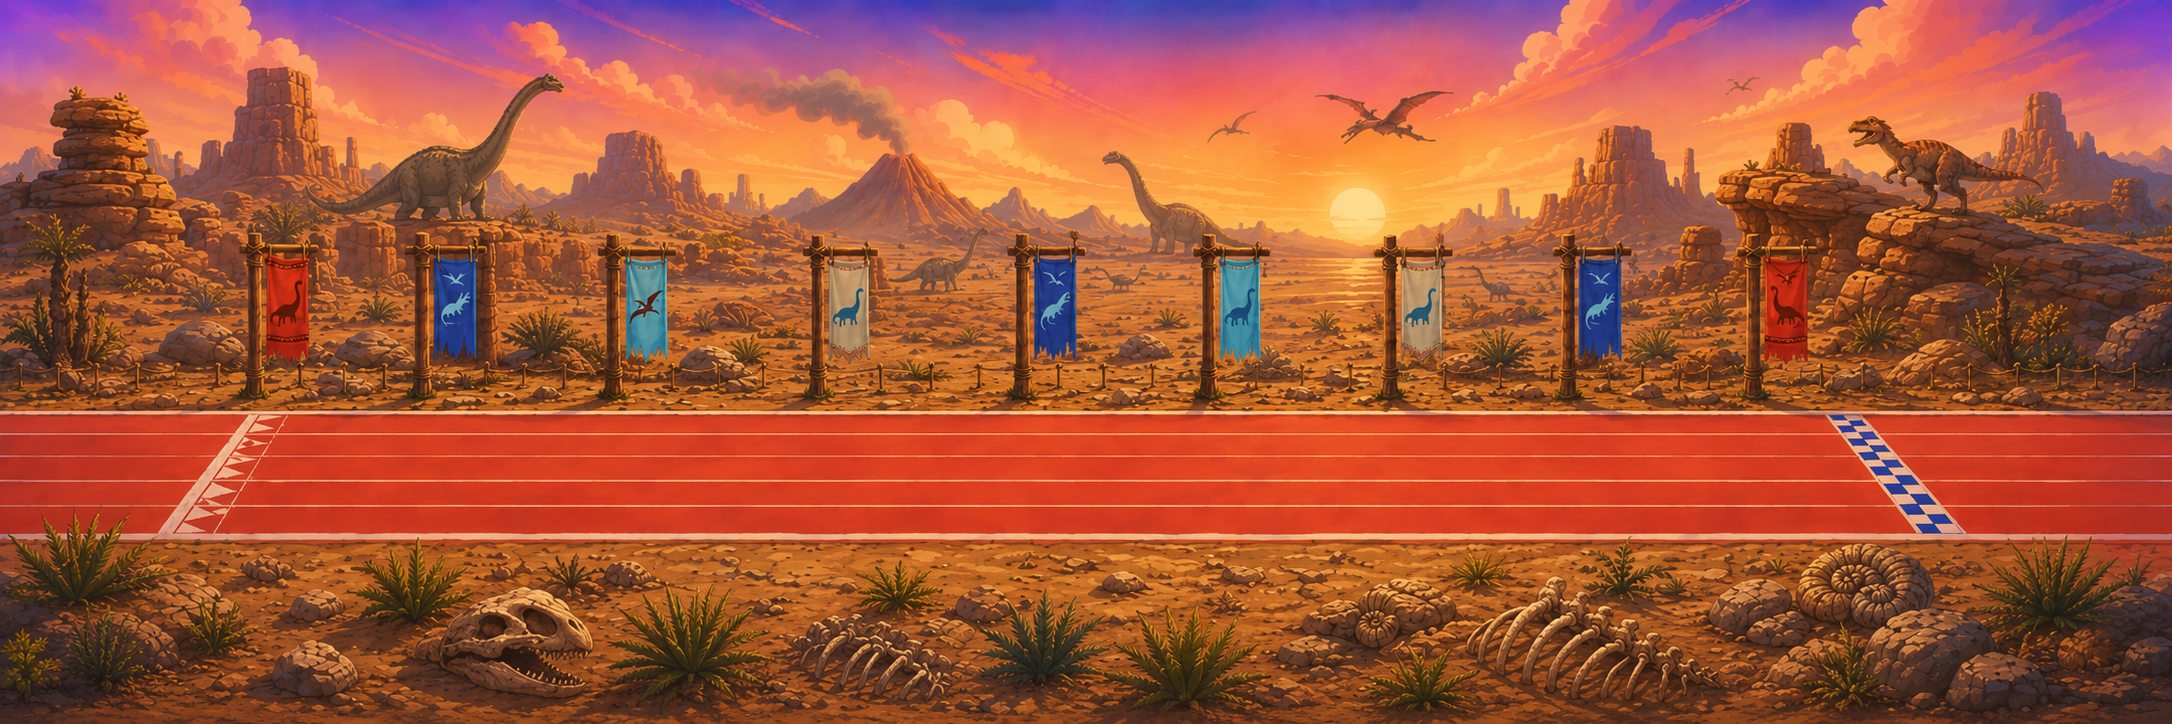
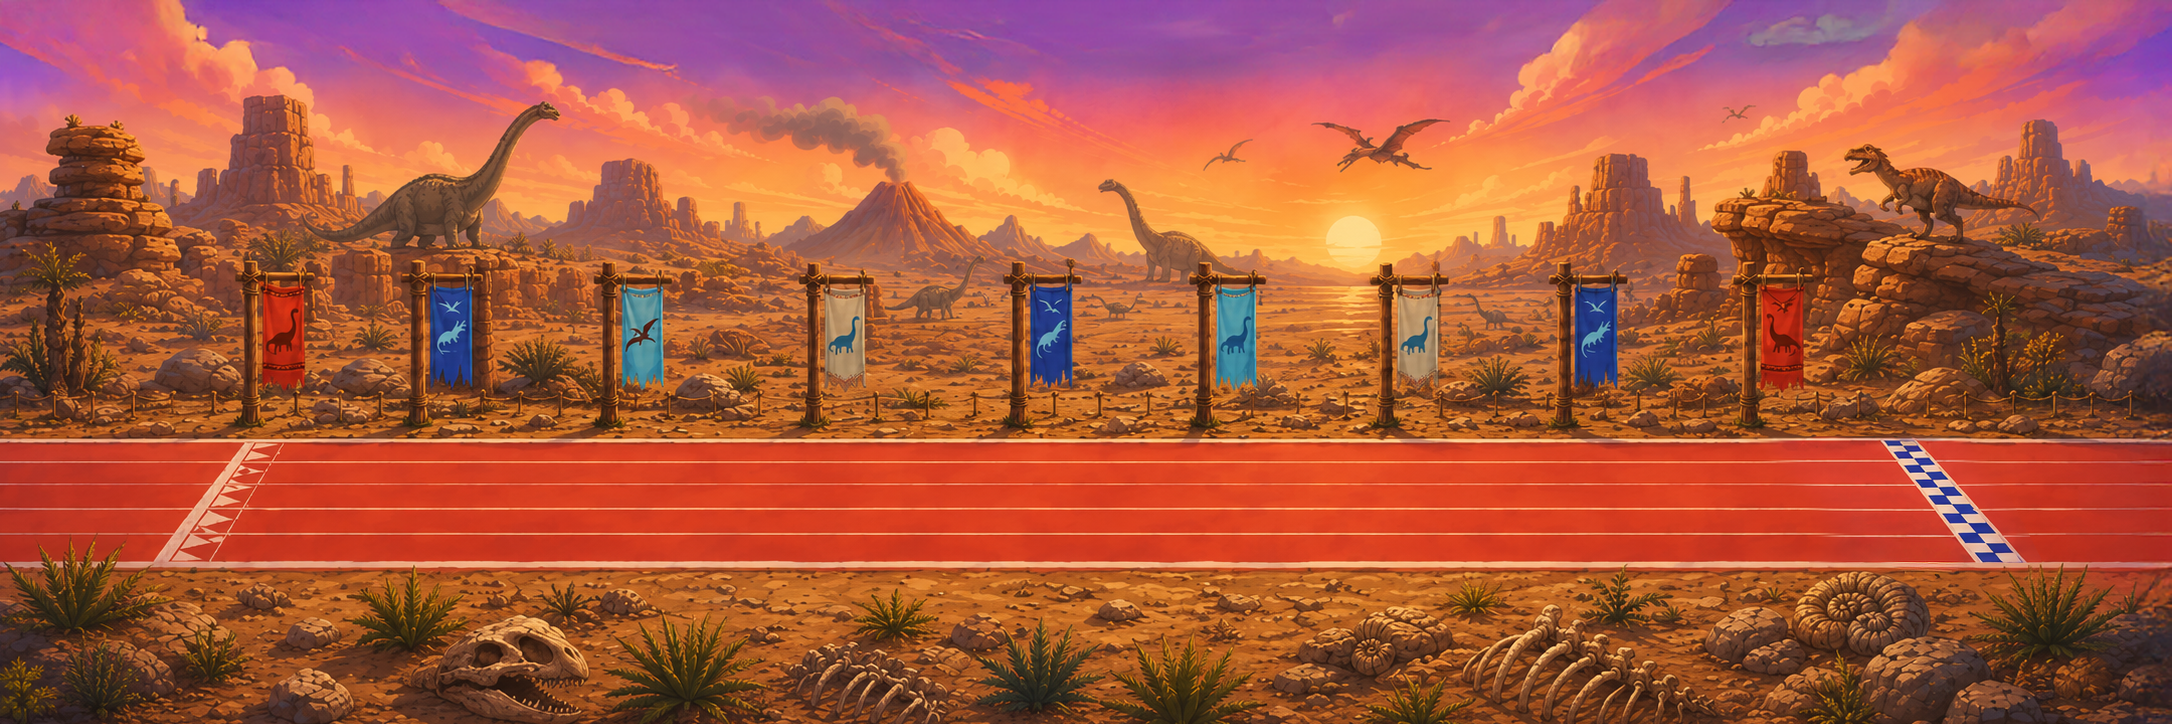
Align canyon stage to shared lane grid

diff --git a/ASSET_GUIDE.md b/ASSET_GUIDE.md
@@ -68,7 +68,7 @@ Camera centers are Photoshop/source coordinates, with positive Y moving down fro
 
 ## Shared stage alignment contract
 
-Prehistoric Winter, Prehistoric Wilds, and Prehistoric Canyon are registered as one panning-track family. Their backgrounds share the same image size, viewport, and camera rules. The race surface may either match the shared Winter/Wilds lane template or provide its own exact `lanePaths` when the painted track grid is different.
+Prehistoric Winter, Prehistoric Wilds, and Prehistoric Canyon are registered as one panning-track family. Their backgrounds share the same image size, viewport, camera rules, and current lane grid. Use a custom `lanePaths` grid only when a new painted road is intentionally different.
 
 Use these exact source-art values for panning stages:
 
@@ -76,9 +76,9 @@ Use these exact source-art values for panning stages:
 - Visible camera/viewport: `1530 x 724`.
 - World size: `2172 x 724`.
 - Camera centers: start at `{ "x": 762, "y": 362 }`, end at `{ "x": 1408, "y": 362 }`.
-- Race line: match the player lane start and finish. Winter/Wilds use `{ "startX": 114, "finishX": 1977 }`; Canyon uses `{ "startX": 125, "finishX": 1897 }`.
-- Lane baselines, in manifest lane order: use the center point of each runner image for that track. Winter/Wilds use `443.25, 415.5, 387.75, 360, 471`; Canyon uses `484, 461, 438, 415, 507`.
-- Winter/Wilds lane paths:
+- Race line: match the player lane start and finish. Current panning stages use `{ "startX": 114, "finishX": 1977 }`.
+- Lane baselines, in manifest lane order: use the center point of each runner image. Current panning stages use `443.25, 415.5, 387.75, 360, 471`.
+- Current panning-stage lane paths:
   - Lane 0: start `{ "x": 136.75, "y": 443.25 }`, finish `{ "x": 1957.75, "y": 443.25 }`
   - Lane 1: start `{ "x": 159.5, "y": 415.5 }`, finish `{ "x": 1938.5, "y": 415.5 }`
   - Lane 2: start `{ "x": 182.25, "y": 387.75 }`, finish `{ "x": 1919.25, "y": 387.75 }`

diff --git a/STAGE_ALIGNMENT.md b/STAGE_ALIGNMENT.md
@@ -28,7 +28,7 @@ Every stage needs five `lanePaths` entries:
 4. Bot 4, top/back lane
 5. Player, bottom/front lane
 
-The player lane should be the largest/front-most lane and is drawn last. Do not assume a new background can reuse another stage's lane Y values. Match the painted track lanes in that exact image.
+The player lane should be the largest/front-most lane and is drawn last. The current prehistoric panning stages share one lane grid; only create a stage-specific grid when the painted road is intentionally different.
 
 ## Start and finish rule
 
@@ -39,7 +39,7 @@ The player lane should be the largest/front-most lane and is drawn last. Do not 
 
 ## Current aligned stages
 
-`Prehistoric Winter` and `Prehistoric Wilds` share this lane grid:
+`Prehistoric Winter`, `Prehistoric Wilds`, and `Prehistoric Canyon` share this lane grid:
 
 ```text
 Bot 1: start 136.75,443.25 -> finish 1957.75,443.25
